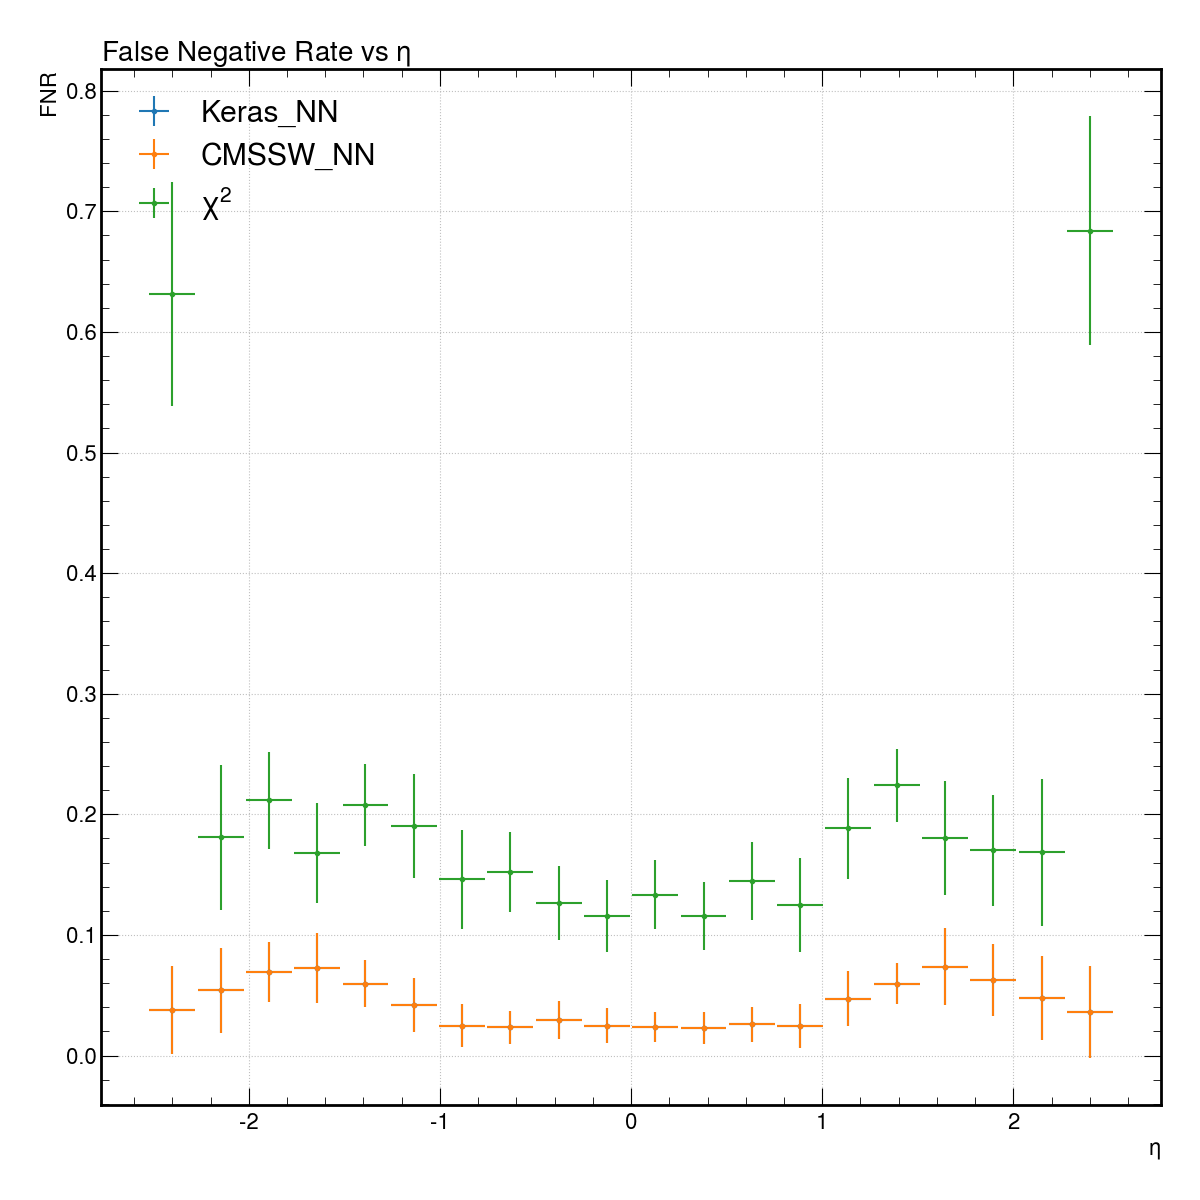
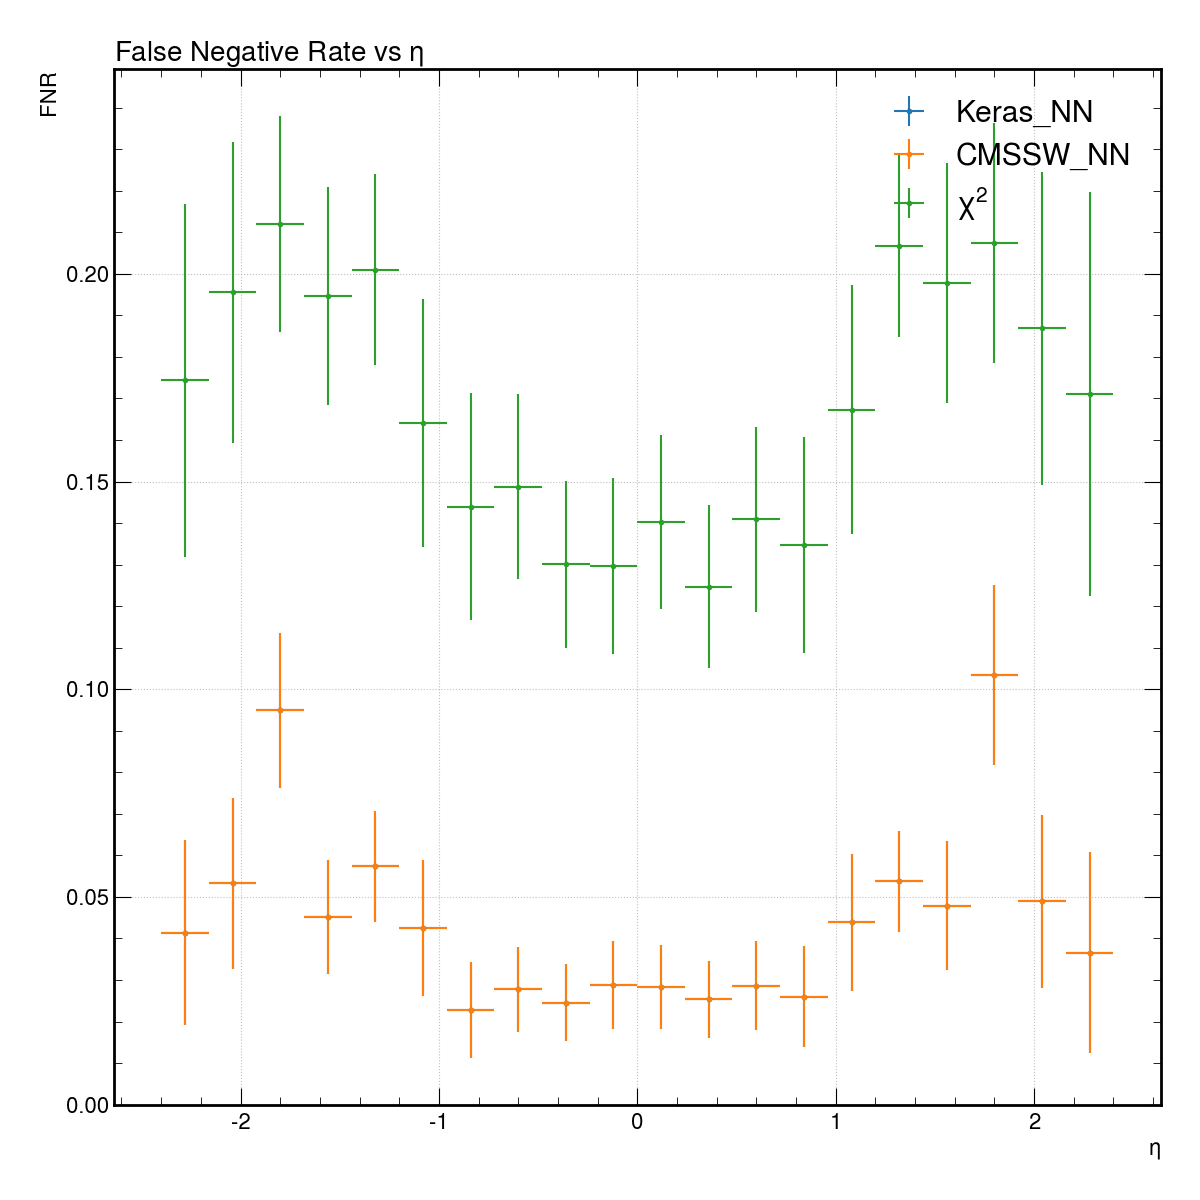
Correct eta binning

diff --git a/Eval/eval_funcs.py b/Eval/eval_funcs.py
@@ -138,7 +138,12 @@ def bins(trackdf,model_names,parameter,threshold=0.5):
 
     if parameter=="eta":
         plot_type_name = "$\eta$"
-        bin_range = np.linspace(-2.4,2.4,20)
+        bin_high = 2.4
+        bin_low = -2.4
+        bins = 20
+        bin_width = (bin_high-bin_low)/bins
+        bin_range = np.linspace(bin_low+bin_width/2,bin_high-bin_width/2,bins)
+        print(bin_range)
 
     if parameter=="pt":
         plot_type_name = "$p_T$"
@@ -151,7 +156,7 @@ def bins(trackdf,model_names,parameter,threshold=0.5):
         
 
     plot_name = parameter
-    bin_width = abs(bin_range[0]-bin_range[-1])/(len(bin_range)*2)
+    
 
     temp_df = pd.DataFrame()
     
@@ -186,8 +191,10 @@ def bins(trackdf,model_names,parameter,threshold=0.5):
     ax.set_title("True Positive Rate vs " +plot_type_name ,loc='left',fontsize=20)
 
     for i in range(len(model_names)-1):
-        ax.errorbar(bin_range,tprs[i,:,0],yerr=tprs[i,:,1],xerr=bin_width,fmt='.', label=model_names[i])
-    ax.errorbar(bin_range,tprs[2,:,0],yerr=tprs[2,:,1],xerr=bin_width,fmt='.', label="$\chi^2$ ")
+        ax.errorbar(bin_range,tprs[i,:,0],yerr=tprs[i,:,1],xerr=bin_width/2,fmt='.', label=model_names[i])
+    ax.errorbar(bin_range,tprs[2,:,0],yerr=tprs[2,:,1],xerr=bin_width/2,fmt='.', label="$\chi^2$ ")
+
+    ax.set_ylim(0.9,0.98)
 
     ax.set_xlabel(plot_type_name,ha="right",x=1,fontsize=16)
     ax.set_ylabel("TPR",ha="right",y=1,fontsize=16)
@@ -206,8 +213,8 @@ def bins(trackdf,model_names,parameter,threshold=0.5):
     ax.set_title("False Positive Rate vs " +plot_type_name ,loc='left',fontsize=20)
 
     for i in range(len(model_names)-1):
-        ax.errorbar(bin_range,fprs[i,:,0],yerr=fprs[i,:,1],xerr=bin_width, fmt='.',label=model_names[i])
-    ax.errorbar(bin_range,fprs[2,:,0],yerr=fprs[2,:,1],xerr=bin_width, fmt='.',label="$\chi^2$ ")
+        ax.errorbar(bin_range,fprs[i,:,0],yerr=fprs[i,:,1],xerr=bin_width/2, fmt='.',label=model_names[i])
+    ax.errorbar(bin_range,fprs[2,:,0],yerr=fprs[2,:,1],xerr=bin_width/2, fmt='.',label="$\chi^2$ ")
 
     ax.set_xlabel(plot_type_name,ha="right",x=1,fontsize=16)
     ax.set_ylabel("FPR",ha="right",y=1,fontsize=16)
@@ -227,8 +234,8 @@ def bins(trackdf,model_names,parameter,threshold=0.5):
     ax.set_title("True Negative Rate vs "+plot_type_name ,loc='left',fontsize=20)
 
     for i in range(len(model_names)-1):
-        ax.errorbar(bin_range,tnrs[i,:,0],yerr=tnrs[i,:,1],xerr=bin_width,fmt='.', label=model_names[i])
-    ax.errorbar(bin_range,tnrs[2,:,0],yerr=tnrs[2,:,1],xerr=bin_width, fmt='.',label="$\chi^2$ ")
+        ax.errorbar(bin_range,tnrs[i,:,0],yerr=tnrs[i,:,1],xerr=bin_width/2,fmt='.', label=model_names[i])
+    ax.errorbar(bin_range,tnrs[2,:,0],yerr=tnrs[2,:,1],xerr=bin_width/2, fmt='.',label="$\chi^2$ ")
 
     ax.set_xlabel(plot_type_name,ha="right",x=1,fontsize=16)
     ax.set_ylabel("TNR",ha="right",y=1,fontsize=16)
@@ -248,8 +255,8 @@ def bins(trackdf,model_names,parameter,threshold=0.5):
     ax.set_title("False Negative Rate vs "+plot_type_name ,loc='left',fontsize=20)
 
     for i in range(len(model_names)-1):
-        ax.errorbar(bin_range,fnrs[i,:,0],yerr=fnrs[i,:,1],xerr=bin_width, fmt='.',label=model_names[i])
-    ax.errorbar(bin_range,fnrs[2,:,0],yerr=fnrs[2,:,1],xerr=bin_width,fmt='.', label="$\chi^2$ ")
+        ax.errorbar(bin_range,fnrs[i,:,0],yerr=fnrs[i,:,1],xerr=bin_width/2, fmt='.',label=model_names[i])
+    ax.errorbar(bin_range,fnrs[2,:,0],yerr=fnrs[2,:,1],xerr=bin_width/2,fmt='.', label="$\chi^2$ ")
 
     ax.set_xlabel(plot_type_name,ha="right",x=1,fontsize=16)
     ax.set_ylabel("FNR",ha="right",y=1,fontsize=16)

diff --git a/Eval/eval.py b/Eval/eval.py
@@ -88,10 +88,10 @@ trackdf["class_1"][trackdf["class_1"]<=threshold] = 0
 
 model_names = ("Keras_NN","CMSSW_NN","Chi2 Cut")
 
-eval_funcs.roc_auc(trackdf,model_names)
+#eval_funcs.roc_auc(trackdf,model_names)
 
 eval_funcs.bins(trackdf,model_names,"eta")
-eval_funcs.bins(trackdf,model_names,"pt")
+#eval_funcs.bins(trackdf,model_names,"pt")
 #eval_funcs.bins(trackdf,model_names,"phi")
 
 #eval_funcs.own_roc(trackdf,model_names)
